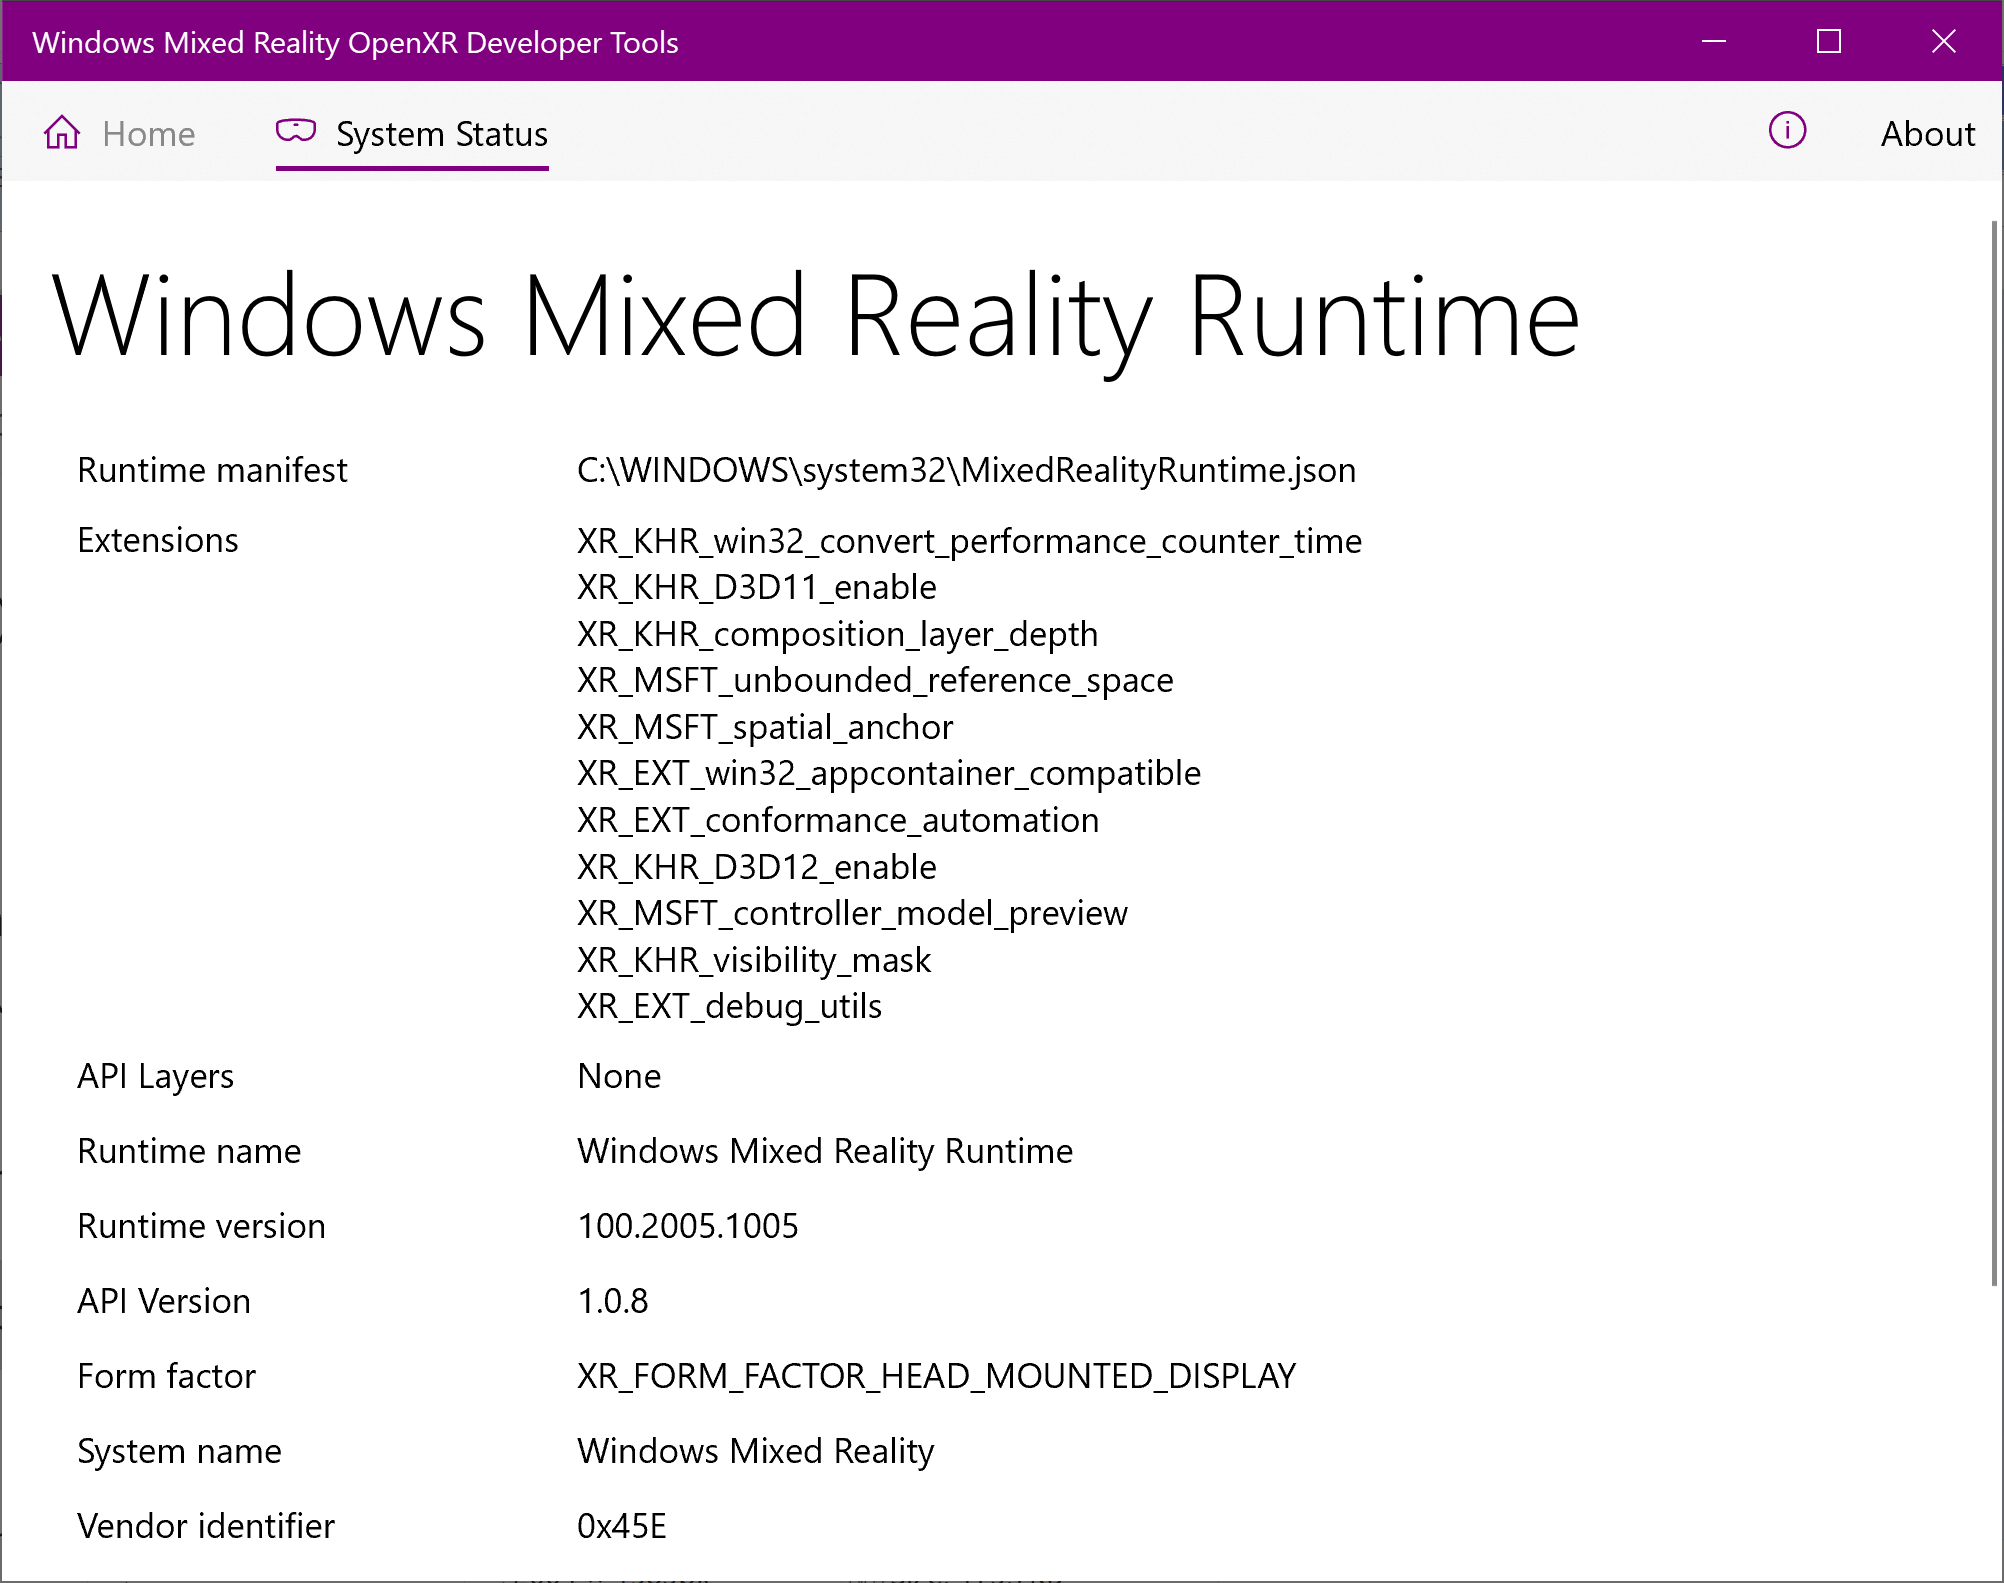
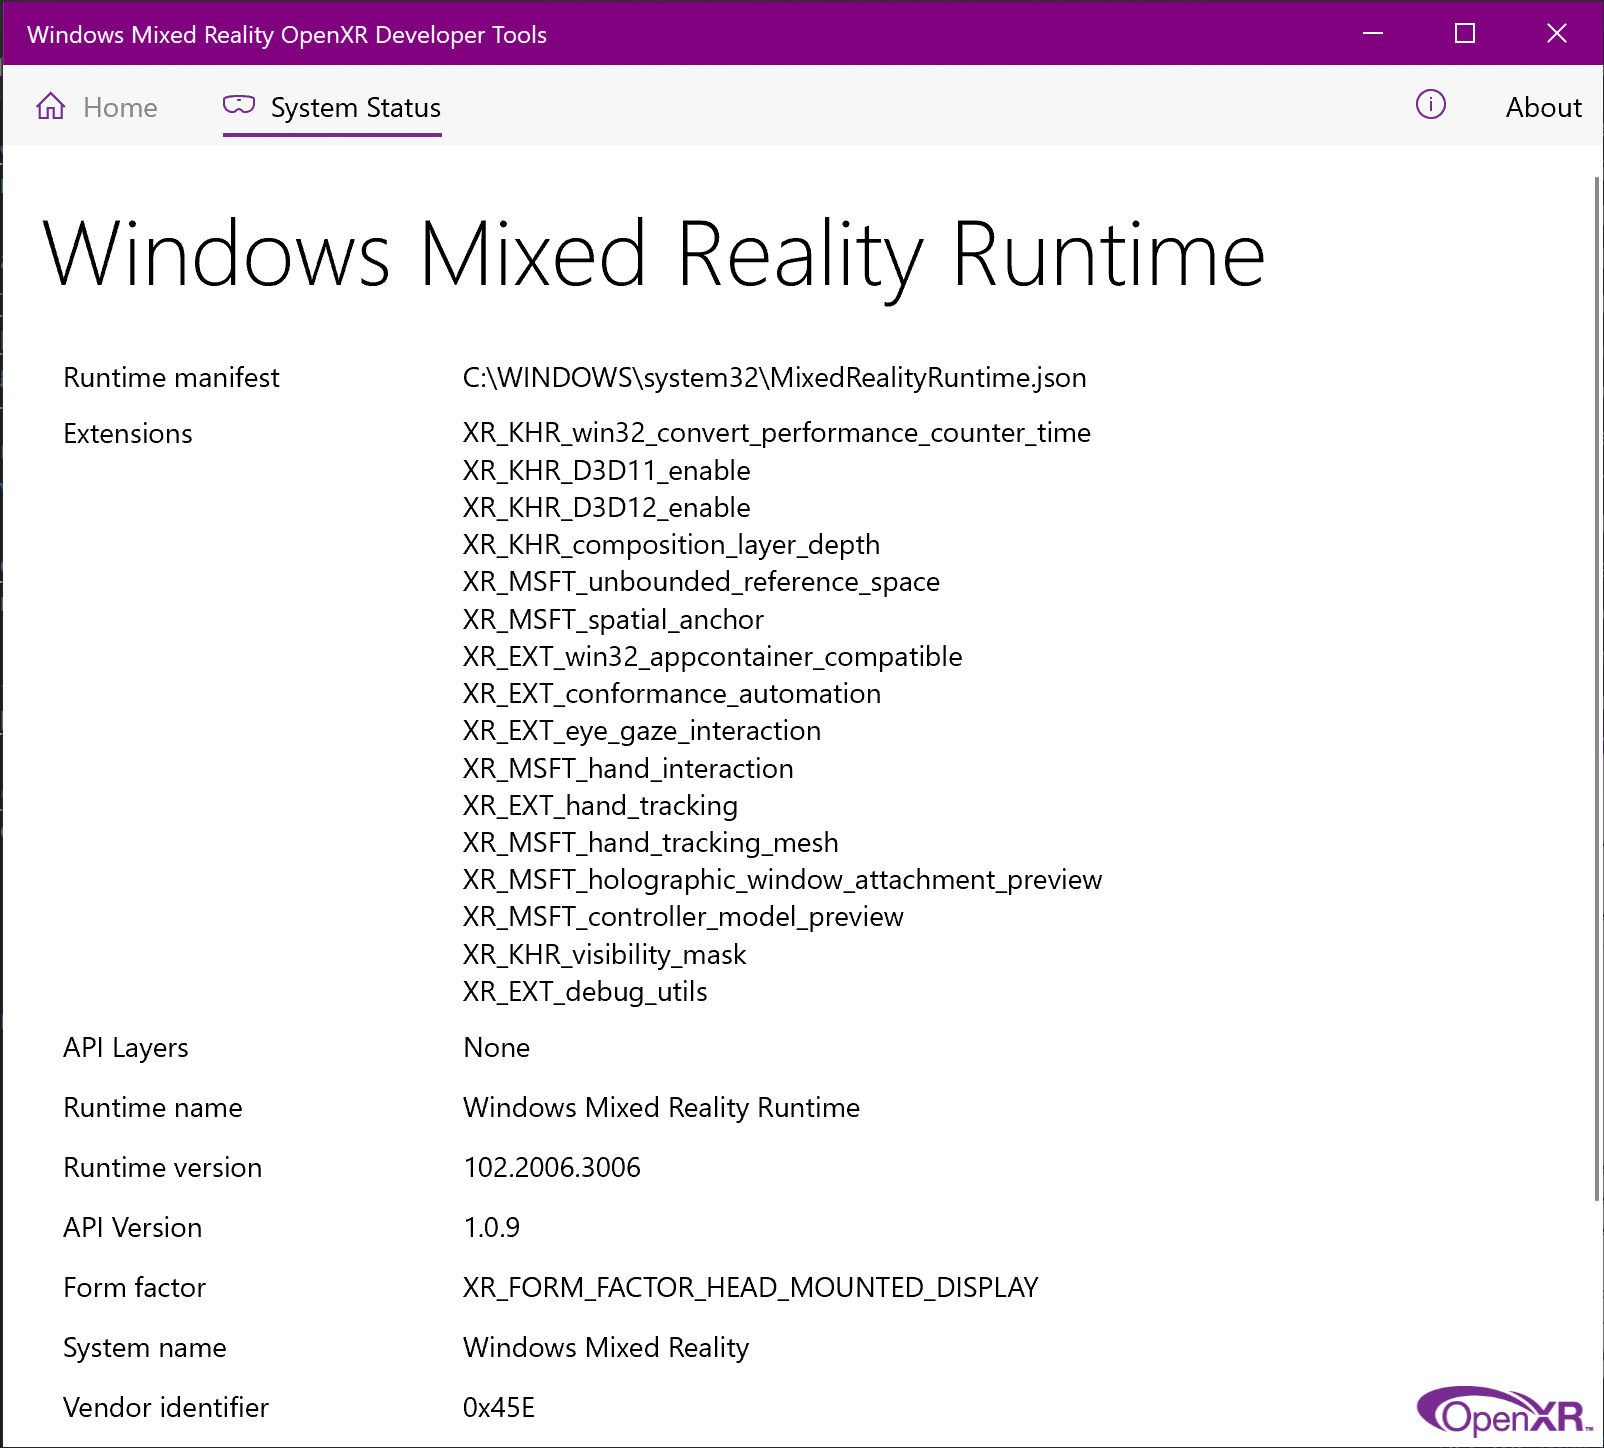
OpenXR roadmap updates for runtime 102

Changed region(s): [[0.0, 0.0, 1.0, 1.0], [0.0312, 0.6526, 0.1247, 0.6837], [0.0623, 0.3419, 0.0935, 0.3729]]

diff --git a/mixed-reality-docs/openxr.md b/mixed-reality-docs/openxr.md
@@ -12,6 +12,8 @@ keywords: OpenXR, Khronos, BasicXRApp, DirectX, native, native app, custom engin
 
 # OpenXR
 
+<img style="float: right;" src="images/openxr.png" alt="OpenXR logo">
+
 OpenXR is an open royalty-free API standard from <a href="https://www.khronos.org/" target="_blank">Khronos</a> that provides engines native access to a wide range of devices from many vendors that span across the [mixed reality spectrum](mixed-reality.md).
 
 You can develop using OpenXR on a HoloLens 2 or Windows Mixed Reality immersive headset on the desktop.  If you don't have access to a headset, you can use the HoloLens 2 Emulator or the Windows Mixed Reality Simulator instead.
@@ -42,7 +44,7 @@ There are three kinds of OpenXR extensions:
 * **Cross-vendor `EXT` extensions:** Cross-vendor extensions that multiple companies define and implement.  Groups of interested companies can introduce EXT extensions at any time.
 * **Official `KHR` extensions:** Official Khronos extensions ratified as part of a core spec release.  KHR extensions are covered by the same license as the core spec itself.
 
-By July 2020, the Windows Mixed Reality OpenXR Runtime will support a set of `MSFT` and `EXT` extensions that bring the full set of HoloLens 2 features to OpenXR applications:
+As of July 2020, the Windows Mixed Reality OpenXR Runtime supports a set of `MSFT` and `EXT` extensions that brings the full set of HoloLens 2 features to OpenXR applications:
 
 | Feature area | Extension availability |
 |--------------|------------------------|
@@ -53,16 +55,17 @@ By July 2020, the Windows Mixed Reality OpenXR Runtime will support a set of `MS
 | Composition layers<br />(projection, quad) | **OpenXR 1.0 core spec:**<br /><code><a href="https://www.khronos.org/registry/OpenXR/specs/1.0/html/xrspec.html#compositing" target="_blank">XrCompositionLayer...</a></code> + <code><a href="https://www.khronos.org/registry/OpenXR/specs/1.0/html/xrspec.html#frame-submission" target="_blank">xrEndFrame</a></code> |
 | [Input and haptics](interaction-fundamentals.md) | **OpenXR 1.0 core spec:**<br /><code><a href="https://www.khronos.org/registry/OpenXR/specs/1.0/html/xrspec.html#input" target="_blank">XrAction...</a></code> |
 | Direct3D 11 integration | **Official `KHR` extension released:**<br /><code><a href="https://www.khronos.org/registry/OpenXR/specs/1.0/html/xrspec.html#XR_KHR_D3D11_enable" target="_blank">XR_KHR_D3D11_enable</a></code> |
-| Direct3D 12 integration | **Official `KHR` extension in [preview runtime 2003](openxr-getting-started.md#using-preview-extensions):**<br /><code><a href="https://www.khronos.org/registry/OpenXR/specs/1.0/html/xrspec.html#XR_KHR_D3D12_enable" target="_blank">XR_KHR_D3D12_enable</a></code><br /><p>**Support in stable runtime**: May 2020 *(planned)*</p> |
+| Direct3D 12 integration | **Official `KHR` extension released:**<br /><code><a href="https://www.khronos.org/registry/OpenXR/specs/1.0/html/xrspec.html#XR_KHR_D3D12_enable" target="_blank">XR_KHR_D3D12_enable</a></code> |
 | [Unbounded reference space<br />(world-scale experiences)](coordinate-systems.md#building-a-world-scale-experience) | **`MSFT` extension released:**<br /><code><a href="https://www.khronos.org/registry/OpenXR/specs/1.0/html/xrspec.html#XR_MSFT_unbounded_reference_space" target="_blank">XR_MSFT_unbounded_reference_space</a></code> |
 | [Spatial anchors](spatial-anchors.md) | **`MSFT` extension released:**<br /><code><a href="https://www.khronos.org/registry/OpenXR/specs/1.0/html/xrspec.html#XR_MSFT_spatial_anchor">XR_MSFT_spatial_anchor</a></code> |
 | [Hand interaction<br />(grip/aim pose, air-tap, grasp)](hands-and-tools.md)<p>*HoloLens 2 only*</p> | **`MSFT` extension released:**<br /><code><a href="https://www.khronos.org/registry/OpenXR/specs/1.0/html/xrspec.html#XR_MSFT_hand_interaction">XR_MSFT_hand_interaction</a></code> |
-| [Hand articulation + hand mesh](hands-and-tools.md)<p>*HoloLens 2 only*</p> | **`MSFT_preview` extensions in [preview runtime 2001](openxr-getting-started.md#using-preview-extensions):**<br /><code><a href="https://microsoft.github.io/OpenXR-MixedReality/openxr_preview/specs/openxr.html#XR_MSFT_hand_tracking_preview">XR_MSFT_hand_tracking_preview</a></code><br /><code><a href="https://microsoft.github.io/OpenXR-MixedReality/openxr_preview/specs/openxr.html#XR_MSFT_hand_tracking_mesh_preview">XR_MSFT_hand_tracking_mesh_preview</a></code><p>**`MSFT` or `EXT` extension in preview runtime**: May 2020 *(planned)*</p> |
-| [Eye gaze](eye-tracking.md)<p>*HoloLens 2 only*</p> | **`EXT` extension in [preview runtime 2003](openxr-getting-started.md#using-preview-extensions)**:<br /><code><a href="https://www.khronos.org/registry/OpenXR/specs/1.0/html/xrspec.html#XR_EXT_eye_gaze_interaction" target="_blank">XR_EXT_eye_gaze_interaction</a></code><p>**Support in stable runtime**: May 2020 *(planned)*</p> |
-| Interop with other HoloLens SDKs (e.g. [QR](qr-code-tracking.md))<p>*HoloLens 2 only*</p> | **`MSFT_preview` extension in [preview runtime 2001](openxr-getting-started.md#using-preview-extensions):**<br /><code><a href="https://microsoft.github.io/OpenXR-MixedReality/openxr_preview/specs/openxr.html#XR_MSFT_spatial_graph_bridge_preview">XR_MSFT_spatial_graph_bridge_preview</a></code><p>**`MSFT` extension in preview runtime**: May 2020 *(planned)*</p> |
-| [Mixed Reality Capture<br />(third render from PV camera)](mixed-reality-capture-for-developers.md#render-from-the-pv-camera-opt-in)<p>*HoloLens 2 only*</p> | **`MSFT_preview` extensions in [preview runtime 2003](openxr-getting-started.md#using-preview-extensions):**<br /><code><a href="https://microsoft.github.io/OpenXR-MixedReality/openxr_preview/specs/openxr.html#XR_MSFT_secondary_view_configuration_preview">XR_MSFT_secondary_view_configuration_preview</a></code><br /><code><a href="https://microsoft.github.io/OpenXR-MixedReality/openxr_preview/specs/openxr.html#XR_MSFT_first_person_observer_preview">XR_MSFT_first_person_observer_preview</a></code><p>**`MSFT` extension in preview runtime**: June 2020 *(planned)*</p> |
-| [Motion controller render models](motion-controllers.md#rendering-the-motion-controller-model) | **`MSFT_preview` extension in [preview runtime 2003](openxr-getting-started.md#using-preview-extensions):**<br /><code><a href="https://microsoft.github.io/OpenXR-MixedReality/openxr_preview/specs/openxr.html#XR_MSFT_controller_model_preview">XR_MSFT_controller_model_preview</a></code><p>**`MSFT` extension in preview runtime**: July 2020 *(planned)*</p> |
-| [Scene understanding (planes, meshes)](scene-understanding.md)<p>*HoloLens 2 only*</p> | <p>**`MSFT_preview` extension in preview runtime**: June 2020 *(planned)*</p><p>**`MSFT` extension in preview runtime**: July 2020 *(planned)*</p> |
+| [Hand articulation + hand mesh](hands-and-tools.md)<p>*HoloLens 2 only*</p> | <p>**`EXT` extension released in runtime 102:**<code><br /><a href="https://www.khronos.org/registry/OpenXR/specs/1.0/html/xrspec.html#XR_EXT_hand_tracking">XR_EXT_hand_tracking</a></code></p>**`MSFT` extension released in runtime 102:**<br /><code><a href="https://www.khronos.org/registry/OpenXR/specs/1.0/html/xrspec.html#XR_MSFT_hand_tracking_mesh">XR_MSFT_hand_tracking_mesh</a></code> |
+| [Eye gaze](eye-tracking.md)<p>*HoloLens 2 only*</p> | **`EXT` extension released:**<br /><code><a href="https://www.khronos.org/registry/OpenXR/specs/1.0/html/xrspec.html#XR_EXT_eye_gaze_interaction" target="_blank">XR_EXT_eye_gaze_interaction</a></code> |
+| Interop with other HoloLens SDKs<br />(e.g. [QR](qr-code-tracking.md))<p>*HoloLens 2 only*</p> | **`MSFT` extension released in runtime 102:**<br /><code><a href="https://www.khronos.org/registry/OpenXR/specs/1.0/html/xrspec.html#XR_MSFT_spatial_graph_bridge">XR_MSFT_spatial_graph_bridge</a></code> |
+| [Mixed Reality Capture<br />(third render from PV camera)](mixed-reality-capture-for-developers.md#render-from-the-pv-camera-opt-in)<p>*HoloLens 2 only*</p> | **`MSFT` extensions released in runtime 102:**<br /><code><a href="https://www.khronos.org/registry/OpenXR/specs/1.0/html/xrspec.html#XR_MSFT_secondary_view_configuration">XR_MSFT_secondary_view_configuration</a></code><br /><code><a href="https://www.khronos.org/registry/OpenXR/specs/1.0/html/xrspec.html#XR_MSFT_first_person_observer">XR_MSFT_first_person_observer</a></code> |
+| Interop with UWP CoreWindow API<br />(e.g. for keyboard/mouse) | **`MSFT_preview` extension in [preview runtime 102](openxr-getting-started.md#using-preview-extensions):**<br /><code><a href="https://microsoft.github.io/OpenXR-MixedReality/openxr_preview/specs/openxr.html#XR_MSFT_holographic_window_attachment_preview">XR_MSFT_holographic_window_attachment_preview</a></code><p>**`MSFT` extension in preview runtime**: August 2020 *(planned)*</p>
+| [Motion controller render models](motion-controllers.md#rendering-the-motion-controller-model) | **`MSFT_preview` extension in [preview runtime](openxr-getting-started.md#using-preview-extensions):**<br /><code><a href="https://microsoft.github.io/OpenXR-MixedReality/openxr_preview/specs/openxr.html#XR_MSFT_controller_model_preview">XR_MSFT_controller_model_preview</a></code><p>**`MSFT` extension in preview runtime**: September 2020 *(planned)*</p> |
+| [Scene understanding (planes, meshes)](scene-understanding.md)<p>*HoloLens 2 only*</p> | <p>**In [preview runtime 102](openxr-getting-started.md#using-preview-extensions):**<br />Use <code><a href="https://www.khronos.org/registry/OpenXR/specs/1.0/html/xrspec.html#XR_MSFT_spatial_graph_bridge">XR_MSFT_spatial_graph_bridge</a></code> with [Scene Understanding SDK](scene-understanding-sdk.md)</p><p>**`MSFT_preview` extension in future preview runtime** *(planned)*</p> |
 | Other cross-vendor extensions | <p>**Official `KHR` extensions released:**</p><code><a href="https://www.khronos.org/registry/OpenXR/specs/1.0/html/xrspec.html#XR_KHR_composition_layer_depth" target="_blank">XR_KHR_composition_layer_depth</a></code><br /><code><a href="https://www.khronos.org/registry/OpenXR/specs/1.0/html/xrspec.html#XR_KHR_visibility_mask" target="_blank">XR_KHR_visibility_mask</a></code><br /><code><a href="https://www.khronos.org/registry/OpenXR/specs/1.0/html/xrspec.html#XR_KHR_win32_convert_performance_counter_time" target="_blank">XR_KHR_win32_convert_performance_counter_time</a></code><p>**`EXT` extensions released:**</p><code><a href="https://www.khronos.org/registry/OpenXR/specs/1.0/html/xrspec.html#XR_EXT_win32_appcontainer_compatible" target="_blank">XR_EXT_win32_appcontainer_compatible</a></code><br /><code><a href="https://www.khronos.org/registry/OpenXR/specs/1.0/html/xrspec.html#XR_EXT_debug_utils" target="_blank">XR_EXT_debug_utils</a></code> |
 
 While some of these extensions may start out as vendor-specific `MSFT` extensions, Microsoft and other OpenXR runtime vendors are working together to design cross-vendor `EXT` or `KHR` extensions for many of these feature areas.  This will enable the code you write for those features to be portable across runtime vendors, just as with the core specification.

diff --git a/mixed-reality-docs/openxr-getting-started.md b/mixed-reality-docs/openxr-getting-started.md
@@ -26,20 +26,18 @@ To start developing OpenXR applications for HoloLens 2:
 To start developing OpenXR applications for immersive Windows Mixed Reality headsets:
 
 1. Be sure you are running at least the Windows 10 May 2019 Update (1903), which is the minimum requirement for Windows Mixed Reality end users to run OpenXR applications.  If you're on an earlier version of Windows 10, you can upgrade by using the <a href="https://www.microsoft.com/software-download/windows10" target="_blank">Windows 10 Update Assistant</a>.
-2. Set up a Windows Mixed Reality headset or follow the instructions to [enable the Windows Mixed Reality simulator](using-the-windows-mixed-reality-simulator.md).  As you set up Windows Mixed Reality, Mixed Reality Portal will automatically install the Windows Mixed Reality OpenXR Runtime.  The Microsoft Store will then keep the runtime up to date.
-3. Make the Windows Mixed Reality OpenXR Runtime active by launching Mixed Reality Portal from the Start menu, clicking the ... menu in the lower-left and selecting "Set up OpenXR".<br>
+2. Set up a Windows Mixed Reality headset or follow the instructions to [enable the Windows Mixed Reality simulator](using-the-windows-mixed-reality-simulator.md).
+
+That's it!  The Windows Mixed Reality OpenXR runtime is installed and made active automatically for all Windows Mixed Reality users.  The Microsoft Store then keeps the runtime up to date.
+
+If you ever need to make the Windows Mixed Reality OpenXR Runtime active again, launch Mixed Reality Portal from the Start menu, click the ... menu in the lower-left and select "Set up OpenXR".  If that menu item is missing, the OpenXR runtime is already active.<br>
 ![Setting up OpenXR in the Mixed Reality Portal](images/mixed-reality-portal-set-up-openxr.png)
-
-If you ever need to make the Windows Mixed Reality OpenXR Runtime active again, repeat step 3.
-
-> [!NOTE]
-> The Windows Mixed Reality OpenXR Runtime will soon be made active automatically for all Windows Mixed Reality end users.
 
 ## Getting the Windows Mixed Reality OpenXR Developer Tools
 
 To try out the Windows Mixed Reality OpenXR Runtime, you can install the <a href="https://www.microsoft.com/store/productId/9n5cvvl23qbt" target="_blank">Mixed Reality OpenXR Developer Tools app</a>.  This app provides a demo scene that exercises various features of OpenXR, along with a System Status page that provides key information about the active runtime and the current headset.
 
-If using the emulator, the easiest way to install the Mixed Reality OpenXR Developer Tools is using [Windows Device Portal](using-the-windows-device-portal.md), by navigating to the "OpenXR" page and then clicking the "Install" button under "Developer Features". (this works on a physical HoloLens 2 device as well)
+If using the HoloLens 2 emulator, the easiest way to install the Mixed Reality OpenXR Developer Tools is using [Windows Device Portal](using-the-windows-device-portal.md), by navigating to the "OpenXR" page and then clicking the "Install" button under "Developer Features". (this works on a physical HoloLens 2 device as well)
 
 ![Mixed Reality OpenXR Developer Tools app](images/mixed-reality-openxr-developer-tools.png)
 
@@ -49,7 +47,7 @@ Be sure to [install the tools](install-the-tools.md) you'll need for OpenXR deve
 
 The <a href="https://github.com/microsoft/OpenXR-MixedReality/tree/master/samples/BasicXrApp" target="_blank">BasicXrApp</a> project demonstrates a simple OpenXR sample with two Visual Studio project files, one for both a Win32 desktop app and one for a UWP HoloLens 2 app.  Because the solution contains a HoloLens UWP project, you'll need the [Universal Windows Platform development workload](install-the-tools.md#installation-checklist) installed in Visual Studio to fully open it.
 
-Note that while the Win32 and UWP project files are separate due to differences in packaging and deployment, the app code inside each project is 100% the same!
+Note that while the Win32 and UWP project files are separate due to differences in packaging and deployment, the app code inside each project is almost exactly the same!
 
 After building an OpenXR Win32 desktop .EXE, you can use it with a VR headset on any desktop VR platform that supports OpenXR, whether it's a Windows Mixed Reality headset or any other headset.
 
@@ -96,6 +94,7 @@ To then activate preview extension support on your target HoloLens 2 or desktop 
      * If your target device is a HoloLens 2 device, [follow these instructions](using-the-windows-device-portal.md) on the target device.  Note that this requires a physical headset, as a known issue in the HoloLens 2 emulator will prevent the UI in the next step from appearing in the emulator.
      * If your target device is a desktop PC with an immersive headset peripheral attached, <a href="https://docs.microsoft.com/windows/uwp/debug-test-perf/device-portal-desktop#set-up-device-portal-on-windows-desktop" target="_blank">follow these instructions</a> on the target desktop PC.
   1. Navigate to the **OpenXR** tab in the left pane and enable **Use latest preview OpenXR runtime**.  This enables the preview runtime on your device, which has preview extensions activated.
+     ![Device Portal OpenXR preview runtime checkbox](images/device-portal-openxr-preview-runtime.png)
   1. Confirm that the **Runtime version** shown on the **System Status** tab of the [Windows Mixed Reality OpenXR Developer Tools](openxr-getting-started.md#getting-the-windows-mixed-reality-openxr-developer-tools) now matches the required version of the preview extensions you plan to try.  If so, you should see the extension in the **Extensions** list.  Note that once a stable extension is available, its preview extension will be removed.<br />
      ![Mixed Reality OpenXR Developer Tools app System Status tab](images/mixed-reality-openxr-developer-tools-status.png)
 
